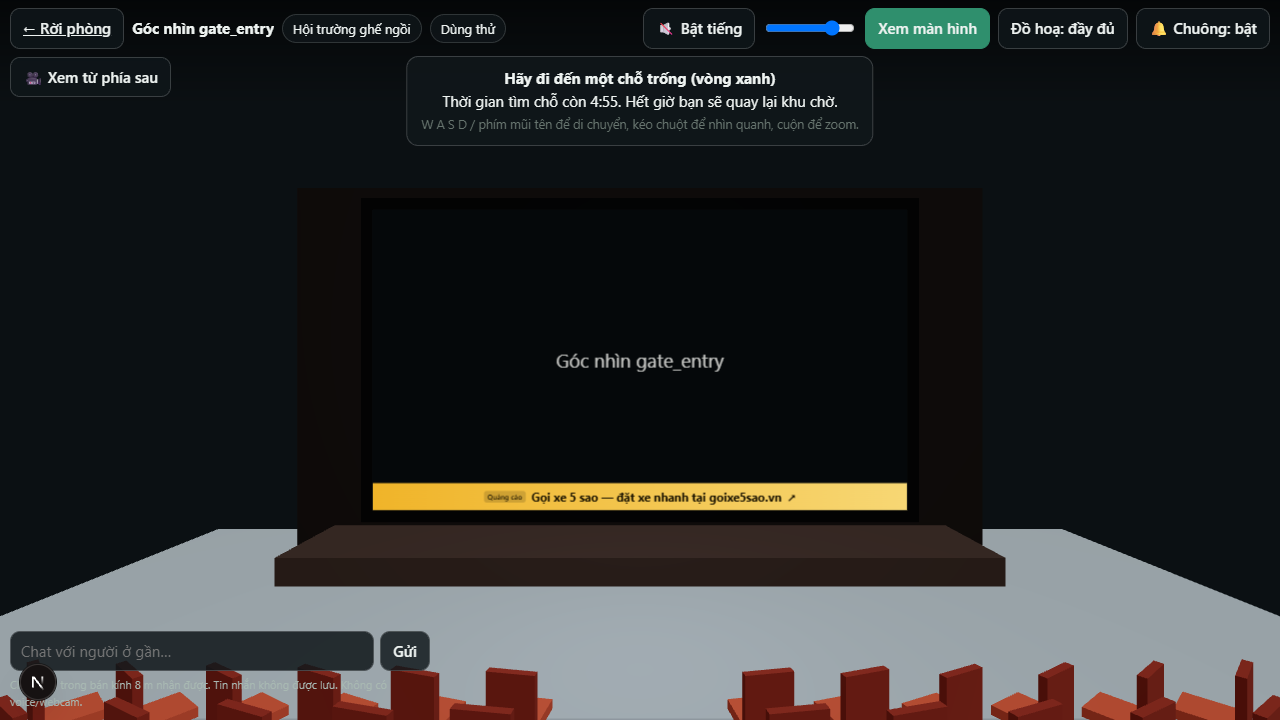
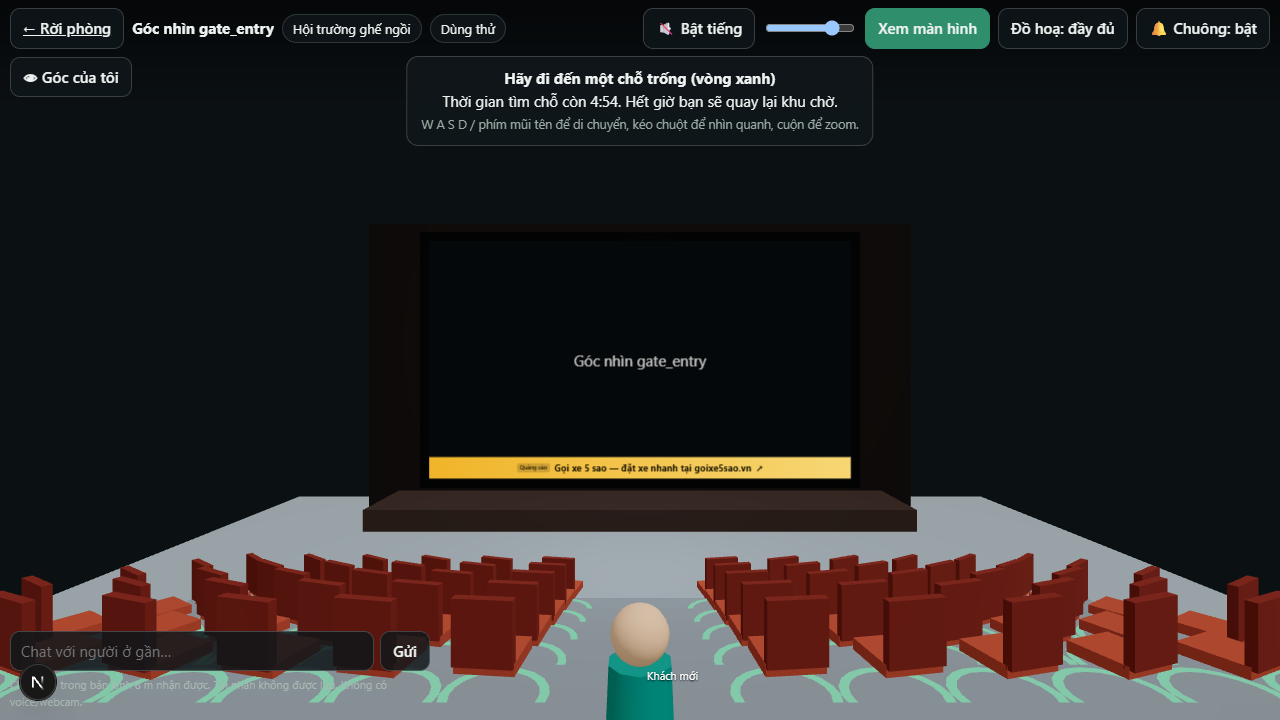
feat(room): view from behind by default, camera level with the screen centre, names on the shoulder
- remove the welcome arch (gate posts + beam) that blocked the view from the back rows
- behind view: camera at the stage-screen centre height on desktop and mobile, far enough
  back that the own avatar stays in frame, pitched just enough to keep the whole screen
- own view never drops below the own eyes in the back rows of a big raked hall
- portrait phones get a wider vertical angle so the screen is not cut at the sides
- name tags sit on the avatar's shoulder; chat bubbles stay above the head

diff --git a/src/components/room/scene.tsx b/src/components/room/scene.tsx
@@ -140,6 +140,8 @@ function SimpleModel({ group, color }: { group: string; color: string }) {
 }
 
 const tmpV = new THREE.Vector3();
+/** Where the name tag sits on each kind of avatar (local coords; +x = the avatar's right side). */
+const SHOULDER: Record<string, [number, number, number]> = { people: [0.22, 0.95, 0], animals: [0.2, 0.75, 0], vehicles: [0, 1.5, 0] };
 const tmpA = new THREE.Vector3();
 
 const Avatar = memo(function Avatar({ id, store, layout, lite, bubbleTick, portal }: { id: string; store: MemberStore; layout: Layout; lite: boolean; bubbleTick: number; portal: React.RefObject<HTMLElement | null> }) {
@@ -174,7 +176,7 @@ const Avatar = memo(function Avatar({ id, store, layout, lite, bubbleTick, porta
       let show = dist < 7;
       if (show) {
         const sc = layout.screen;
-        tmpV.set(g.current.position.x, g.current.position.y + 1.8, g.current.position.z).project(camera);
+        tmpV.set(g.current.position.x, g.current.position.y + SHOULDER[cur.avatar.group][1], g.current.position.z).project(camera);
         // Outside the view (e.g. the neighbour right below / beside the camera): a projected
         // point behind the camera would otherwise flip and float over the screen.
         if (tmpV.z > 1 || Math.abs(tmpV.x) > 1.05 || Math.abs(tmpV.y) > 1.05) show = false;
@@ -190,6 +192,7 @@ const Avatar = memo(function Avatar({ id, store, layout, lite, bubbleTick, porta
   if (!m) return null;
   const color = AVATARS[m.avatar.group].models.find((x) => x.id === m.avatar.model)?.color ?? "#888";
   const height = m.avatar.group === "vehicles" ? 2.2 : 1.6;
+  const shoulder = SHOULDER[m.avatar.group];
   const bubble = store.bubbles.get(id);
   const showBubble = bubble && Date.now() - bubble.at < 8000;
   void bubbleTick;
@@ -202,13 +205,16 @@ const Avatar = memo(function Avatar({ id, store, layout, lite, bubbleTick, porta
       <group ref={simple} visible={false}>
         <SimpleModel group={m.avatar.group} color={color} />
       </group>
-      <Html position={[0, height + 0.15, 0]} portal={portal as React.RefObject<HTMLElement>} style={{ pointerEvents: "none" }} zIndexRange={[16777000, 16776000]}>
-        <div>
-          {showBubble && <div className="bubble">{bubble!.text}</div>}
-          <div ref={tag} className="nametag" style={{ opacity: m.connected ? 1 : 0.5 }}>
-            {m.name}
-            {!m.connected && " (mất kết nối)"}
-          </div>
+      {showBubble && (
+        <Html position={[0, height + 0.15, 0]} portal={portal as React.RefObject<HTMLElement>} style={{ pointerEvents: "none" }} zIndexRange={[16777000, 16776000]}>
+          <div className="bubble">{bubble!.text}</div>
+        </Html>
+      )}
+      {/* Name on the shoulder: readable from behind without covering the head or the screen. */}
+      <Html position={shoulder} portal={portal as React.RefObject<HTMLElement>} style={{ pointerEvents: "none" }} zIndexRange={[16777000, 16776000]}>
+        <div ref={tag} className="nametag" style={{ opacity: m.connected ? 1 : 0.5 }}>
+          {m.name}
+          {!m.connected && " (mất kết nối)"}
         </div>
       </Html>
     </group>
@@ -350,7 +356,7 @@ function World({ layout, children }: { layout: Layout; children?: ReactNode }) {
         <planeGeometry args={[w.maxX - w.minX, w.maxZ - w.minZ + 2]} />
         <meshStandardMaterial color={night ? "#14181c" : "#b9c4b0"} />
       </mesh>
-      {/* fence with a gate */}
+      {/* low fence with an opening (no arch: it blocked the view from the back rows) */}
       <mesh position={[m.minX + fenceLeft / 2, 0.6, m.maxZ]}>
         <boxGeometry args={[fenceLeft, 1.2, 0.15]} />
         <meshStandardMaterial color="#6b5440" />
@@ -358,16 +364,6 @@ function World({ layout, children }: { layout: Layout; children?: ReactNode }) {
       <mesh position={[m.maxX - fenceRight / 2, 0.6, m.maxZ]}>
         <boxGeometry args={[fenceRight, 1.2, 0.15]} />
         <meshStandardMaterial color="#6b5440" />
-      </mesh>
-      {[-1, 1].map((s) => (
-        <mesh key={s} position={[layout.gate.x + s * layout.gate.halfWidth, 1.6, m.maxZ]}>
-          <boxGeometry args={[0.3, 3.2, 0.3]} />
-          <meshStandardMaterial color="#c8a24a" emissive={night ? "#5a4210" : "#000"} />
-        </mesh>
-      ))}
-      <mesh position={[layout.gate.x, 3.25, m.maxZ]}>
-        <boxGeometry args={[layout.gate.halfWidth * 2 + 0.6, 0.3, 0.3]} />
-        <meshStandardMaterial color="#c8a24a" emissive={night ? "#5a4210" : "#000"} />
       </mesh>
       {/* stage / screen frame */}
       {layout.map !== "drive_in" && (
@@ -628,26 +624,43 @@ function ParticipantRig({ layout, store, selfId, controls, send, entryMode }: { 
     if (c.behind) {
       // Eyes of someone sitting 2 rows behind: own avatar + the rows in front + the screen.
       const seated = !!seat && me.status === "seated";
-      // Walking: a little further back, higher (clears the gate beam and the fence) and looking
-      // down a bit, so the own avatar stays in frame together with the screen.
-      const back = layout.rowGap * 2 + (seated ? 0 : layout.rowGap * 2);
-      const bx = sf.x - h.fx * back;
-      const bz = sf.z - h.fz * back;
-      const floor = floorY(layout, bz, me.status !== "waiting");
-      camera.position.set(bx, floor + (seated ? layout.eyeHeight + (isCar ? 1 : 0.15) : isCar ? 5 : 3.8), bz);
-      if (!seated) tilt = -0.35;
+      // The camera is level with the centre of the stage screen (same height on desktop and
+      // mobile). It stays far enough back that the own avatar is at most ~30° below the horizon,
+      // and pitches down just enough to put the own avatar in the lower part of the frame while
+      // the whole screen stays in view.
+      const selfFloor = seat ? seat.y : floorY(layout, sf.z, me.status !== "waiting");
+      const selfTop = selfFloor + (isCar ? 2.2 : 1.6);
+      let back = layout.rowGap * 2 + (seated ? 0 : layout.rowGap);
+      let bx = sf.x - h.fx * back;
+      let bz = sf.z - h.fz * back;
+      let y = Math.max(layout.screen.y, floorY(layout, bz, me.status !== "waiting") + layout.eyeHeight + 0.6);
+      const minBack = (y - selfTop) / Math.tan(0.53);
+      if (back < minBack) {
+        back = minBack;
+        bx = sf.x - h.fx * back;
+        bz = sf.z - h.fz * back;
+        y = Math.max(y, floorY(layout, bz, me.status !== "waiting") + layout.eyeHeight + 0.6);
+      }
+      camera.position.set(bx, y, bz);
+      tilt = -Math.max(0, Math.atan2(Math.max(0, y - selfTop), back) - 0.38);
     } else {
       // Own view: always level with the centre of the stage screen, looking straight ahead,
       // so the screen sits in the middle of the display (also right after joining).
       const driver = isCar ? -0.38 : 0;
-      camera.position.set(sf.x + h.rx * driver + h.fx * (isCar ? 0.2 : 0), layout.screen.y, sf.z + h.rz * driver + h.fz * (isCar ? 0.2 : 0));
+      const ex = sf.x + h.rx * driver + h.fx * (isCar ? 0.2 : 0);
+      const ez = sf.z + h.rz * driver + h.fz * (isCar ? 0.2 : 0);
+      // Never below the own eyes (back rows of a big raked hall sit higher than the screen centre).
+      const eye = (seat ? seat.y : floorY(layout, ez, me.status !== "waiting")) + layout.eyeHeight;
+      camera.position.set(ex, Math.max(layout.screen.y, eye), ez);
     }
     camera.rotation.set(0, 0, 0, "YXZ");
     camera.rotation.y = heading;
     camera.rotation.x = tilt + Math.max(-PITCH_RANGE, Math.min(PITCH_RANGE, c.pitch));
     const pc = camera as THREE.PerspectiveCamera;
-    if (Math.abs(pc.fov - c.fov) > 0.05) {
-      pc.fov += (c.fov - pc.fov) * Math.min(1, dt * 8);
+    // Phone held upright: widen the vertical angle so the screen is not cut at the sides.
+    const want = pc.aspect < 1 ? Math.min(90, c.fov + (1 - pc.aspect) * 40) : c.fov;
+    if (Math.abs(pc.fov - want) > 0.05) {
+      pc.fov += (want - pc.fov) * Math.min(1, dt * 8);
       pc.updateProjectionMatrix();
     }
   });

diff --git a/src/components/room/room-view.tsx b/src/components/room/room-view.tsx
@@ -230,8 +230,8 @@ export function RoomView({ roomId }: { roomId: string }) {
   const members = useMemo(() => [...store.map.values()], [s.version]); // eslint-disable-line react-hooks/exhaustive-deps
   const occupied = useMemo(() => new Set(members.filter((m) => m.status === "seated" && m.seatId).map((m) => m.seatId!)), [members]);
 
-  // "View from 2 rows behind": ↓ while seated (↑ to return), or the HUD button.
-  const [behind, setBehind] = useState(false);
+  // Default: the view from behind (own avatar + screen); ↑ / the HUD button for the own eyes.
+  const [behind, setBehind] = useState(true);
   useEffect(() => {
     controls.current.behind = behind;
   }, [behind]);
